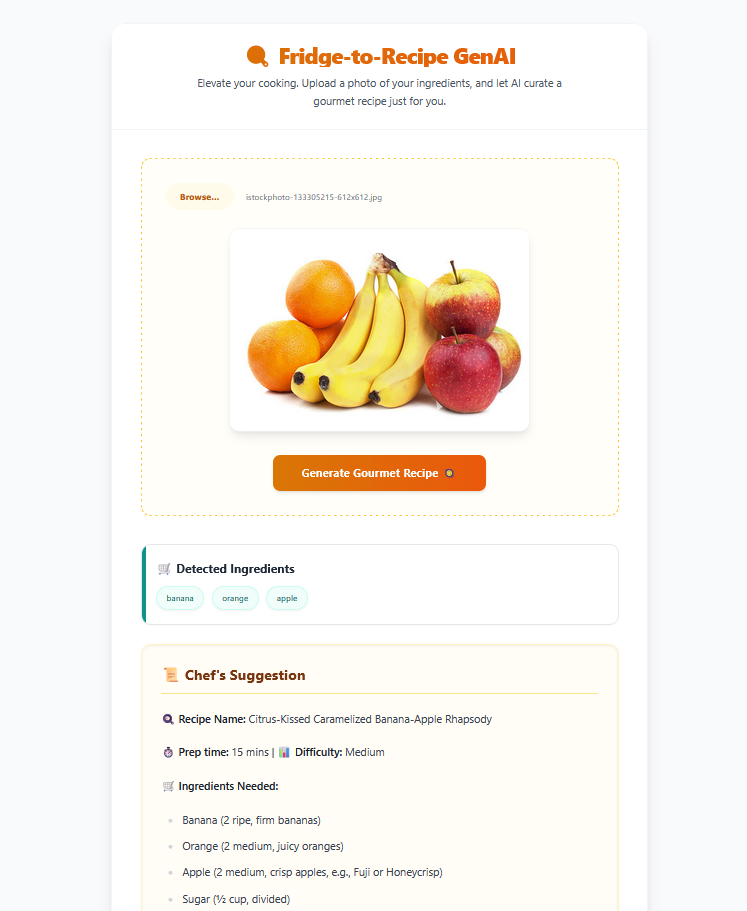
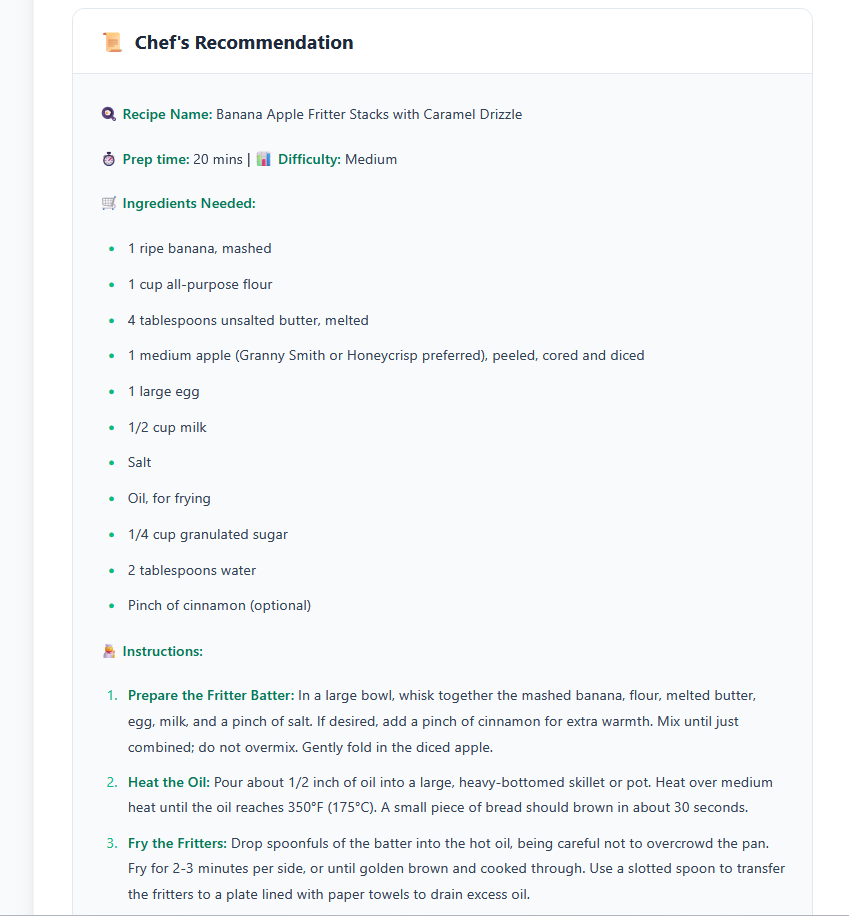
Update README and App component styles

diff --git a/frontend/src/App.jsx b/frontend/src/App.jsx
@@ -40,145 +40,191 @@ function App() {
   };
 
   return (
-    <div className="min-h-screen bg-gray-50 py-12 px-4 sm:px-6 lg:px-8 font-sans">
-      <div className="max-w-4xl mx-auto bg-white rounded-3xl shadow-xl overflow-hidden border border-gray-100">
-        {/* Header Section - Modern & Clean */}
-        <div className="bg-white p-8 text-center border-b border-gray-100">
-          <h1 className="text-4xl font-extrabold text-gray-900 tracking-tight mb-3 bg-clip-text text-transparent bg-gradient-to-r from-amber-600 to-orange-600">
-            🍳 Fridge-to-Recipe GenAI
+    <div className="min-h-screen bg-slate-50 py-12 px-4 sm:px-6 lg:px-8 font-sans text-slate-800">
+      <div className="max-w-5xl mx-auto bg-white rounded-3xl shadow-xl overflow-hidden border border-slate-100">
+        {/* Header Section - Clean & Minimal */}
+        <div className="bg-white p-10 text-center border-b border-slate-100">
+          <div className="inline-flex items-center justify-center p-3 bg-emerald-100 rounded-full mb-4">
+            <span className="text-3xl">👨🍳</span>
+          </div>
+          <h1 className="text-4xl font-extrabold text-slate-900 tracking-tight mb-3">
+            Smart Chef <span className="text-emerald-600">AI</span>
           </h1>
-          <p className="text-lg text-gray-600 max-w-2xl mx-auto leading-relaxed">
-            Elevate your cooking. Upload a photo of your ingredients, and let AI
-            curate a gourmet recipe just for you.
+          <p className="text-lg text-slate-500 max-w-2xl mx-auto leading-relaxed">
+            Turn your fridge ingredients into a 5-star meal. Upload a photo and
+            let our AI curate a recipe for you.
           </p>
         </div>
 
         {/* Main Content Area */}
-        <div className="p-8 md:p-12">
-          {/* Upload Section - Elegant Dropzone */}
-          <div
-            className={`group border-2 border-dashed rounded-2xl p-10 text-center transition-all duration-300 ${
-              image
-                ? "border-amber-400 bg-amber-50/30"
-                : "border-gray-300 hover:border-amber-400 hover:bg-gray-50"
-            }`}
-          >
-            <input
-              type="file"
-              onChange={handleImageChange}
-              accept="image/*"
-              className="block w-full text-sm text-gray-500
-                file:mr-5 file:py-3 file:px-6
-                file:rounded-full file:border-0
-                file:text-sm file:font-bold
-                file:bg-amber-50 file:text-amber-700
-                hover:file:bg-amber-100 cursor-pointer transition-colors"
-            />
+        <div className="p-8 md:p-12 bg-white">
+          {/* Upload Section - Professional Dropzone */}
+          <div className="grid grid-cols-1 md:grid-cols-2 gap-10 items-start">
+            {/* Left Side: Upload Control */}
+            <div className="space-y-6">
+              <div
+                className={`group relative border-2 border-dashed rounded-2xl p-8 text-center transition-all duration-300 ease-in-out
+                  ${
+                    image
+                      ? "border-emerald-500 bg-emerald-50/30"
+                      : "border-slate-300 hover:border-emerald-500 hover:bg-slate-50"
+                  }`}
+              >
+                <input
+                  type="file"
+                  onChange={handleImageChange}
+                  accept="image/*"
+                  className="absolute inset-0 w-full h-full opacity-0 cursor-pointer z-10"
+                />
 
-            {preview && (
-              <div className="mt-8 flex justify-center relative">
-                <div className="p-2 bg-white rounded-2xl shadow-lg ring-1 ring-gray-100">
-                  <img
-                    src={preview}
-                    alt="Preview"
-                    className="max-h-80 rounded-xl object-cover"
-                  />
+                <div className="space-y-4">
+                  <div className="mx-auto w-16 h-16 bg-slate-100 rounded-full flex items-center justify-center group-hover:bg-emerald-100 transition-colors">
+                    <svg
+                      xmlns="http://www.w3.org/2000/svg"
+                      className="h-8 w-8 text-slate-400 group-hover:text-emerald-600"
+                      fill="none"
+                      viewBox="0 0 24 24"
+                      stroke="currentColor"
+                    >
+                      <path
+                        strokeLinecap="round"
+                        strokeLinejoin="round"
+                        strokeWidth={2}
+                        d="M4 16v1a3 3 0 003 3h10a3 3 0 003-3v-1m-4-8l-4-4m0 0L8 8m4-4v12"
+                      />
+                    </svg>
+                  </div>
+                  <div>
+                    <p className="text-base font-semibold text-slate-700">
+                      {image ? image.name : "Click to upload or drag and drop"}
+                    </p>
+                    <p className="text-sm text-slate-400 mt-1">
+                      JPG, PNG up to 10MB
+                    </p>
+                  </div>
                 </div>
               </div>
-            )}
 
-            {/* Generate Button - Gradient & Shadow */}
-            <button
-              onClick={handleUpload}
-              disabled={loading}
-              className={`mt-10 w-full md:w-auto md:px-12 py-4 rounded-xl text-white font-bold text-lg tracking-wide transition-all duration-300 shadow-md
-                ${
-                  loading
-                    ? "bg-gray-400 cursor-not-allowed opacity-70"
-                    : "bg-gradient-to-r from-amber-600 to-orange-600 hover:from-amber-700 hover:to-orange-700 hover:shadow-xl hover:-translate-y-1"
-                }`}
-            >
-              {loading ? (
-                <span className="flex items-center justify-center gap-2">
-                  <svg
-                    className="animate-spin h-5 w-5 text-white"
-                    xmlns="http://www.w3.org/2000/svg"
-                    fill="none"
-                    viewBox="0 0 24 24"
-                  >
-                    <circle
-                      className="opacity-25"
-                      cx="12"
-                      cy="12"
-                      r="10"
-                      stroke="currentColor"
-                      strokeWidth="4"
-                    ></circle>
-                    <path
-                      className="opacity-75"
-                      fill="currentColor"
-                      d="M4 12a8 8 0 018-8V0C5.373 0 0 5.373 0 12h4zm2 5.291A7.962 7.962 0 014 12H0c0 3.042 1.135 5.824 3 7.938l3-2.647z"
-                    ></path>
-                  </svg>
-                  Crafting Recipe...
-                </span>
+              {/* Generate Button */}
+              <button
+                onClick={handleUpload}
+                disabled={loading}
+                className={`w-full py-4 rounded-xl text-white font-bold text-lg tracking-wide transition-all duration-300 shadow-sm
+                  ${
+                    loading
+                      ? "bg-slate-400 cursor-not-allowed"
+                      : "bg-emerald-600 hover:bg-emerald-700 hover:shadow-lg transform hover:-translate-y-0.5"
+                  }`}
+              >
+                {loading ? (
+                  <span className="flex items-center justify-center gap-2">
+                    <svg
+                      className="animate-spin h-5 w-5 text-white"
+                      xmlns="http://www.w3.org/2000/svg"
+                      fill="none"
+                      viewBox="0 0 24 24"
+                    >
+                      <circle
+                        className="opacity-25"
+                        cx="12"
+                        cy="12"
+                        r="10"
+                        stroke="currentColor"
+                        strokeWidth="4"
+                      ></circle>
+                      <path
+                        className="opacity-75"
+                        fill="currentColor"
+                        d="M4 12a8 8 0 018-8V0C5.373 0 0 5.373 0 12h4zm2 5.291A7.962 7.962 0 014 12H0c0 3.042 1.135 5.824 3 7.938l3-2.647z"
+                      ></path>
+                    </svg>
+                    Analyzing Ingredients...
+                  </span>
+                ) : (
+                  "Generate Recipe ✨"
+                )}
+              </button>
+            </div>
+
+            {/* Right Side: Preview */}
+            <div className="flex items-center justify-center bg-slate-50 rounded-2xl border border-slate-100 h-full min-h-[300px]">
+              {preview ? (
+                <img
+                  src={preview}
+                  alt="Preview"
+                  className="max-h-80 w-full object-contain rounded-xl p-2"
+                />
               ) : (
-                "Generate Gourmet Recipe 🥘"
+                <div className="text-slate-400 text-center">
+                  <span className="text-4xl block mb-2">🖼</span>
+                  <span className="text-sm">
+                    Image preview will appear here
+                  </span>
+                </div>
               )}
-            </button>
+            </div>
           </div>
 
           {/* Result Section */}
           {result && (
-            <div className="mt-12 space-y-8 animate-fade-in-up">
-              {/* Ingredients Tags - Sophisticated Palette */}
-              <div className="bg-white p-6 rounded-2xl border border-gray-200 shadow-sm relative overflow-hidden">
-                <div className="absolute top-0 left-0 w-2 h-full bg-teal-600"></div>
-                <h3 className="text-xl font-bold text-gray-800 mb-4 flex items-center gap-2">
-                  🛒 Detected Ingredients
+            <div className="mt-16 space-y-10 animate-fade-in">
+              {/* Ingredients Section */}
+              <div>
+                <h3 className="text-xl font-bold text-slate-800 mb-4 flex items-center gap-2">
+                  <span className="w-8 h-8 bg-emerald-100 text-emerald-600 rounded-lg flex items-center justify-center text-sm">
+                    🛒
+                  </span>
+                  Detected Ingredients
                 </h3>
-                <div className="flex flex-wrap gap-3">
+                <div className="flex flex-wrap gap-2">
                   {result.ingredients.length > 0 ? (
                     result.ingredients.map((item, index) => (
                       <span
                         key={index}
-                        className="bg-teal-50 text-teal-800 px-4 py-2 rounded-full text-sm font-medium border border-teal-100 shadow-sm"
+                        className="bg-white text-slate-700 px-4 py-2 rounded-full text-sm font-medium border border-slate-200 shadow-sm flex items-center gap-2"
                       >
+                        <span className="w-2 h-2 rounded-full bg-emerald-500"></span>
                         {item}
                       </span>
                     ))
                   ) : (
-                    <span className="text-gray-500 italic">
-                      No specific ingredients detected.
+                    <span className="text-slate-500 italic">
+                      No recognizable ingredients found.
                     </span>
                   )}
                 </div>
               </div>
 
-              {/* Recipe Card - Paper & Ink Feel */}
-              {/* Recipe Card */}
-              <div className="bg-amber-50/50 p-8 rounded-2xl shadow-inner border border-amber-100 relative">
-                <h3 className="text-2xl font-bold text-amber-900 mb-6 flex items-center gap-3 pb-4 border-b border-amber-200">
-                  📜 Chef's Suggestion
-                </h3>
+              {/* Recipe Card - Clean Modern Style */}
+              <div className="bg-slate-50 rounded-2xl border border-slate-200 overflow-hidden">
+                <div className="bg-white px-8 py-6 border-b border-slate-200 flex items-center gap-3">
+                  <span className="text-2xl">📜</span>
+                  <h3 className="text-2xl font-bold text-slate-800">
+                    Chef's Recommendation
+                  </h3>
+                </div>
 
-                {/* Markdown Component */}
-                <article className="prose prose-lg prose-amber max-w-none">
-                  <ReactMarkdown
-                    components={
-                      {
-                        // අමතර Styles අවශ්ය නම් මෙතනට දාන්න පුළුවන්,
-                        // නමුත් prose class එකෙන් ඔක්කොම ලස්සනට හදනවා.
-                      }
-                    }
+                <div className="p-8">
+                  {/* Markdown Content */}
+                  <article
+                    className="prose prose-slate prose-lg max-w-none
+                    prose-headings:text-slate-800 
+                    prose-a:text-emerald-600 
+                    prose-strong:text-emerald-700
+                    prose-li:marker:text-emerald-500"
                   >
-                    {result.recipe}
-                  </ReactMarkdown>
-                </article>
+                    <ReactMarkdown>{result.recipe}</ReactMarkdown>
+                  </article>
+                </div>
               </div>
             </div>
           )}
         </div>
+      </div>
+
+      {/* Footer */}
+      <div className="text-center text-slate-400 text-sm mt-8">
+        Powered by YOLOv8 & Gemini 2.0 Flash
       </div>
     </div>
   );

diff --git a/backend/main.py b/backend/main.py
@@ -4,10 +4,10 @@ from ultralytics import YOLO
 from google import genai
 import io
 from PIL import Image
-import torch
+
 
 app = FastAPI()
-API_KEY = "YOUR_GEMINI_API_KEY_HERE"  #add your API key here
+API_KEY = "YOUR_API_KEY_HERE"  #add your API key here
 
 # 2. Frontend (React) 
 app.add_middleware(

diff --git a/README.md b/README.md
@@ -1,6 +1,6 @@
 # 🍳 Fridge-to-Recipe GenAI (Smart Chef)
 
-![Project Banner](screenshots/demo2.png)
+![Project Banner](screenshots/home.png)
 
 An intelligent full-stack application that helps you decide what to cook! Simply upload a photo of the ingredients in your fridge, and the AI will detect them and generate a gourmet recipe for you.
 
@@ -97,7 +97,8 @@ The frontend will start at `http://localhost:5173`
 
 ### Demo
 
-![Demo](screenshots/demo.png)
+![Demo](screenshots/demo1.png)
+![Demo](screenshots/demo2.png)
 
 ### Accuracy Analysis
 
